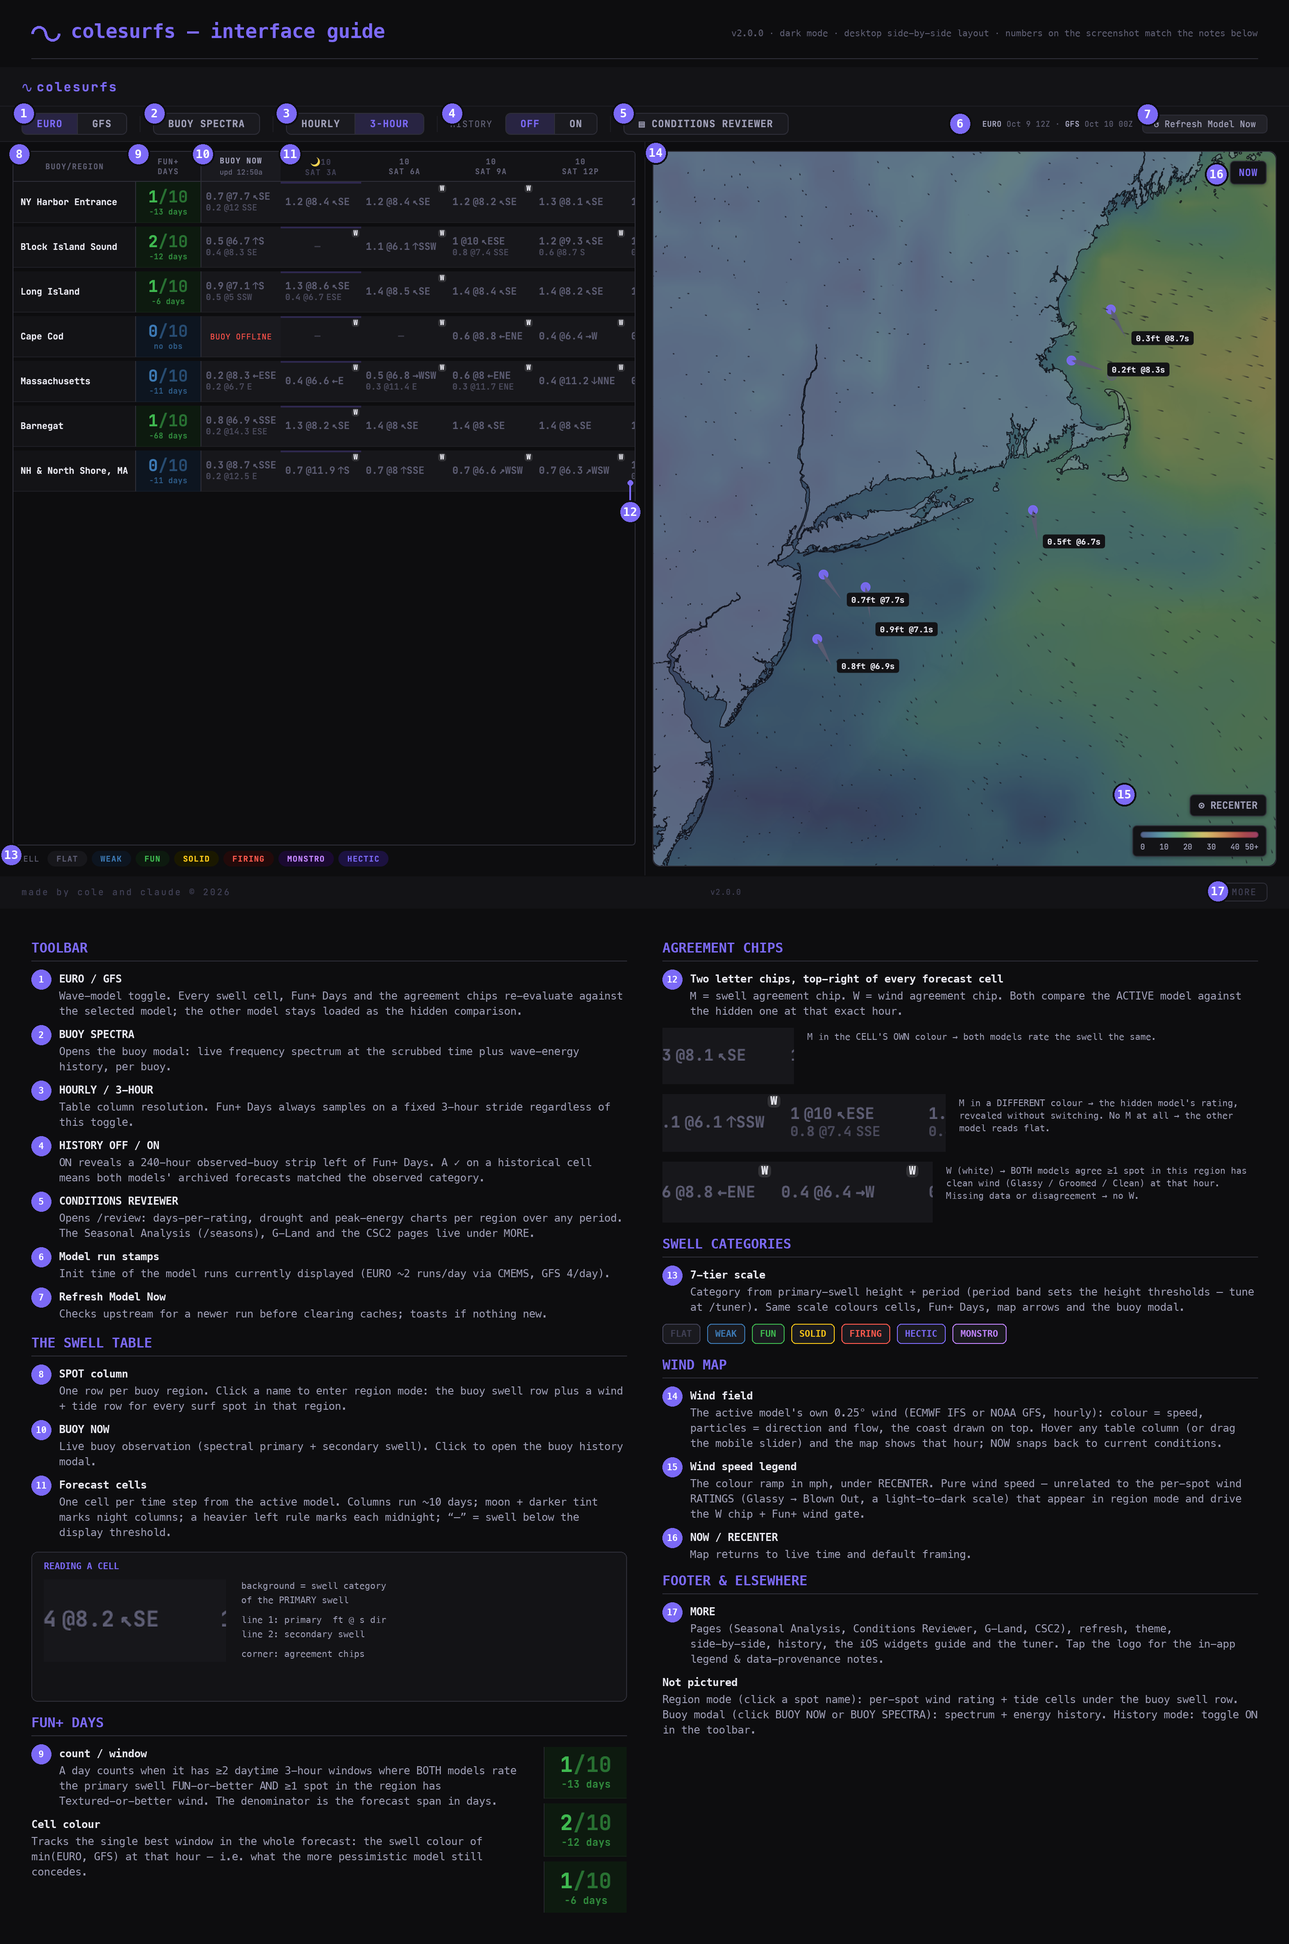
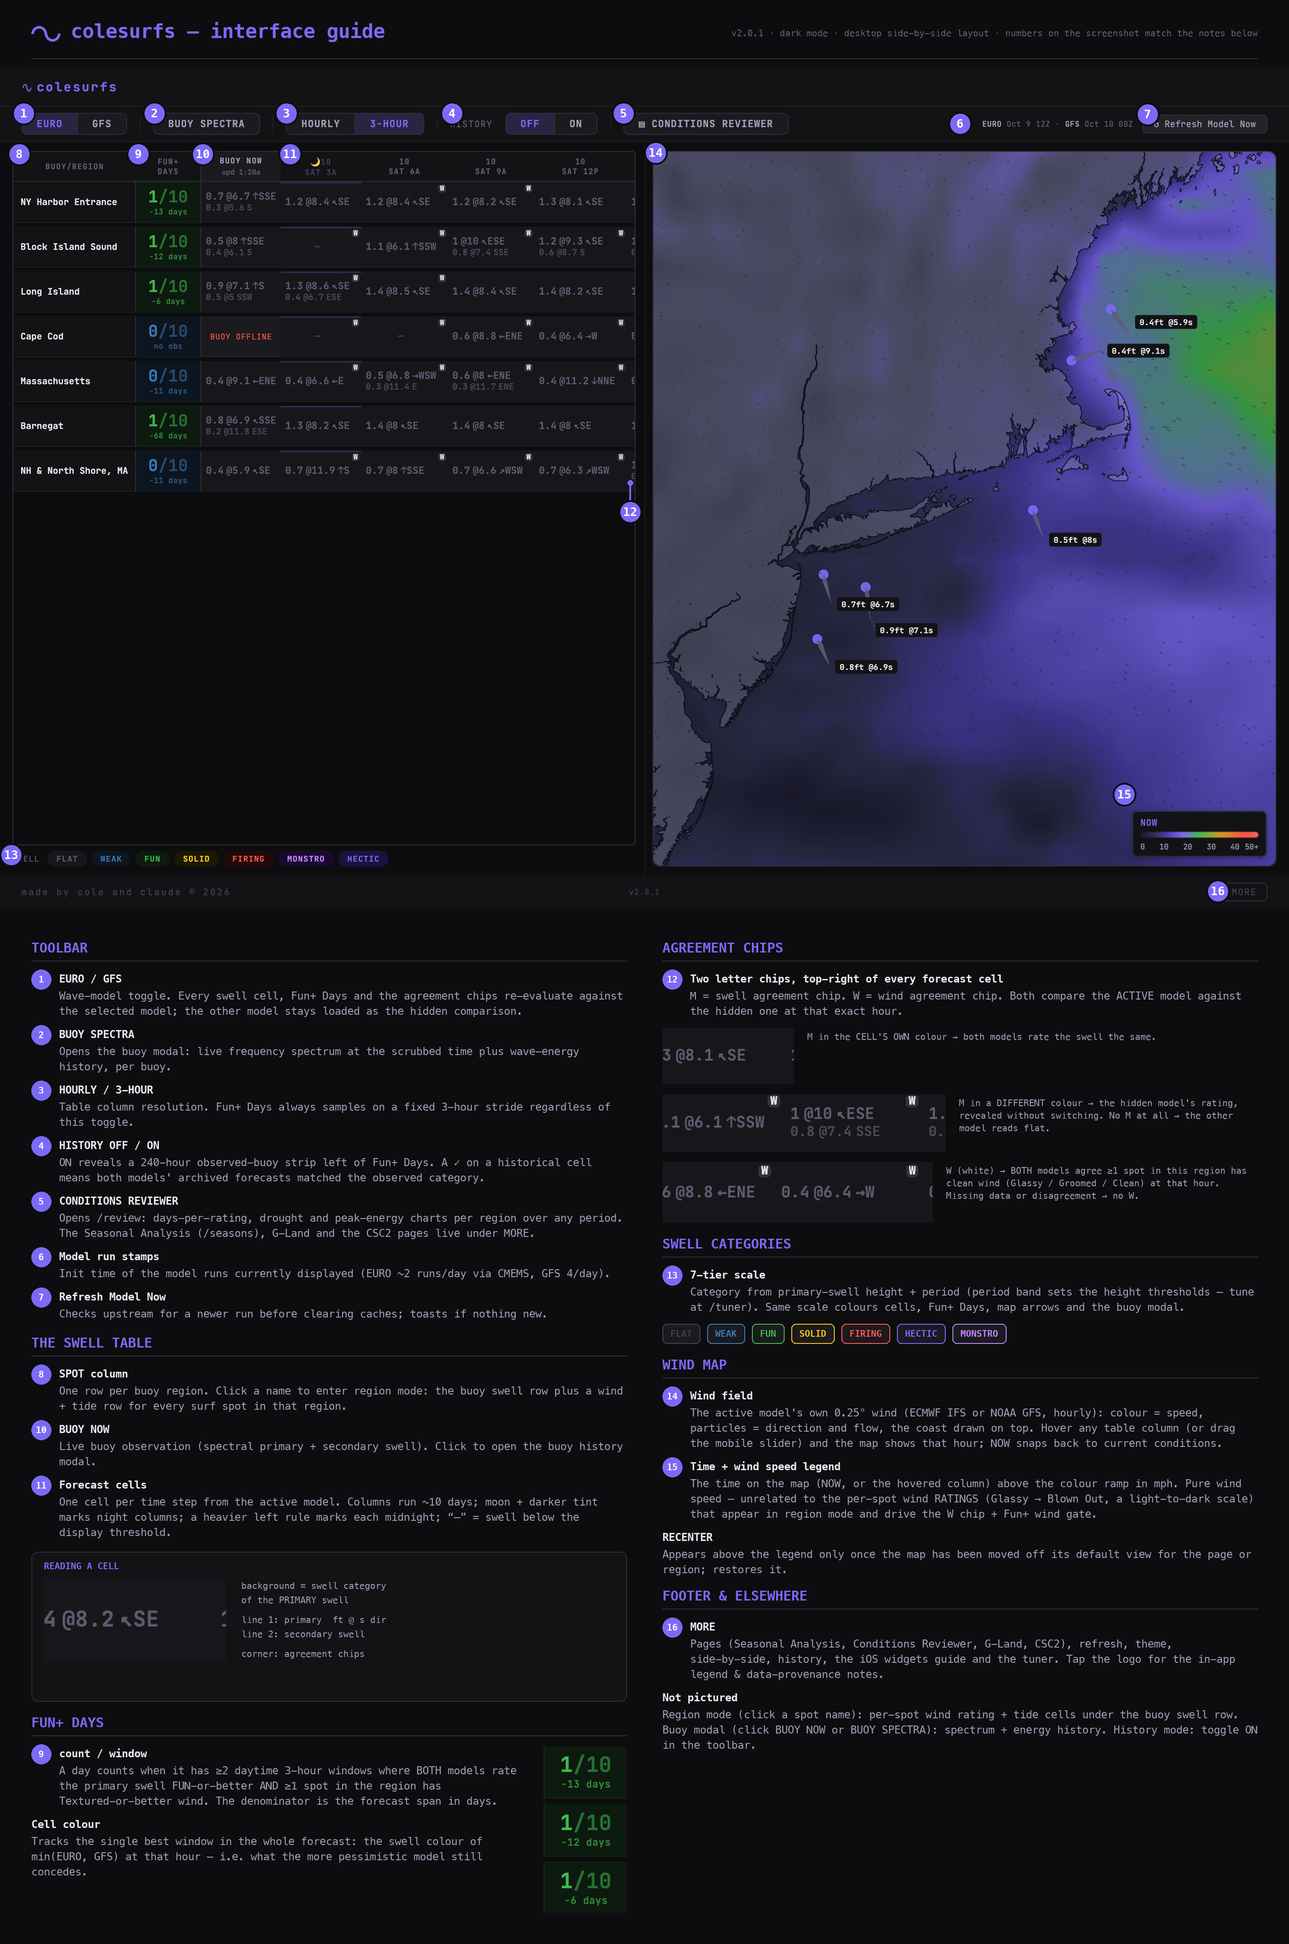
v2.0.1 — time label folded into the map legend; RECENTER only off the default view
- The map's time (NOW or the hovered column) sits in the legend above the
  wind-speed bar; the separate top-right time box is gone (desktop and phone).
- RECENTER appears only once the view leaves the default for the overview or
  the current region; _defaultView() defines that home for restoring and comparing.
- Interface guide and docs updated.

diff --git a/templates/index.html b/templates/index.html
@@ -193,16 +193,6 @@
 
     /* ─── Wind Map ────────────────────────────────────────── */
     #wind-time-display { font-size: 10px; color: var(--accent); letter-spacing: .04em; }
-    .map-time-overlay {
-      display: none;
-      font-size: 11px; color: var(--accent); letter-spacing: .04em;
-      font-family: var(--font); font-weight: 600;
-      background: var(--bg1); padding: 4px 9px; border-radius: 5px;
-      border: 1px solid var(--border1); pointer-events: none;
-      box-shadow: 0 1px 4px rgba(0,0,0,.35);
-      white-space: nowrap;
-    }
-    body.sbs .map-time-overlay { display: block; }
     .map-wrapper {
       width: 100%; height: 420px;
       border-radius: 8px; border: 1px solid var(--border1);
@@ -228,6 +218,8 @@
       box-shadow: 0 1px 4px rgba(0,0,0,.35);
       pointer-events: none; font-family: var(--font);
     }
+    .wss-time { font-size: 10px; font-weight: 600; letter-spacing: .04em; color: var(--accent); line-height: 1.2; white-space: nowrap; }
+    .wss-body { display: flex; flex-direction: column; gap: 4px; }
     .wss-status { font-size: 8.5px; letter-spacing: .07em; text-transform: uppercase; color: var(--text1); }
     .wss-bar { height: 7px; border-radius: 4px; box-shadow: inset 0 0 0 1px rgba(0,0,0,.25); }
     .wss-ticks { position: relative; height: 11px; font-size: 8.5px; color: var(--text1); }
@@ -496,6 +488,7 @@
       box-shadow: 0 1px 4px rgba(0,0,0,.35);
     }
     .map-recenter-btn:hover { color: var(--accent); border-color: var(--accent); }
+    .map-recenter-btn.is-home { display: none; }   /* only offered once the view has left its default */
 
     /* ─── Loading overlay ────────────────────────────────────── */
     .loading-overlay {
@@ -713,6 +706,8 @@
 
       /* Wind speed legend: compact on mobile */
       .wind-speed-scale { width: 118px !important; padding: 5px 7px 4px !important; gap: 3px !important; }
+      .wss-body { gap: 3px; }
+      .wss-time { font-size: 9px; }
       .wss-bar { height: 5px !important; }
 
       /* ── Table: fill remaining 60% ── */
@@ -1039,13 +1034,6 @@
         line-height: 26px !important; font-size: 14px !important;
       }
       .map-recenter-btn { font-size: 9px !important; padding: 3px 7px !important; }
-
-      /* Map time overlay — match button style */
-      .map-time-overlay {
-        display: block !important;
-        font-size: 9px !important;
-        padding: 3px 7px !important;
-      }
 
       /* Loading overlay: smaller */
       .loading-logo { font-size: 18px; }
@@ -1509,7 +1497,7 @@
       <dt>Tides</dt><dd>NOAA CO-OPS predictions, Surfline-corrected</dd>
       <dt>Map</dt><dd>NOAA NCEI Coastal Relief / ETOPO elevation, drawn in-house</dd>
     </dl>
-    <span class="info-modal-version">v2.0.0</span>
+    <span class="info-modal-version">v2.0.1</span>
   </div>
 </div>
 
@@ -1534,7 +1522,7 @@
       <a class="info-modal-refresh" href="/tuner">⇞ TUNER</a>
       <button class="info-modal-refresh" onclick="openWidgetModal()">▣ IOS WIDGETS</button>
     </div>
-    <span class="about-version">v2.0.0</span>
+    <span class="about-version">v2.0.1</span>
   </div>
 </div>
 
@@ -1604,7 +1592,7 @@ await eval(await r.loadString());</pre>
     made by cole and claude &copy; 2026
   </span>
   <div class="footer-center">
-    <span class="footer-version">v2.0.0</span>
+    <span class="footer-version">v2.0.1</span>
   </div>
   <div class="footer-btns">
     <button class="footer-btn" onclick="openAboutModal()" title="Pages and settings">MORE</button>
@@ -2353,7 +2341,7 @@ WindField.onUpdate(model => {
   _setWindRunTag(field);
 });
 
-// Update wind time label in both the section header and the SBS map overlay.
+// Update wind time label in both the section header and the map legend.
 function _setWindTimeLabel(label) {
   const el = document.getElementById('wind-time-display');
   if (el) el.textContent = label;
@@ -2682,7 +2670,7 @@ async function loadWindForecast(model) {
 // ═══ 8. LEGEND & WIND SCALE ═════════════════════════════════
 
 function buildWindScale() {
-  const el = document.getElementById('wind-speed-scale');
+  const el = document.getElementById('wss-body');
   if (!el) return;
   const MPH = 2.23694, MAX = 50, theme = _isDark() ? 'dark' : 'light';
   if (el.dataset.built !== theme) {
@@ -4423,26 +4411,16 @@ function initMap() {
     el.addEventListener('touchcancel', () => { _lastT = 0; }, { passive: true });
   }
 
-  // Time badge — always top-right
-  const TimeOverlayControl = L.Control.extend({
-    options: { position: 'topright' },
-    onAdd() {
-      const el = L.DomUtil.create('div', 'map-time-overlay');
-      el.id = 'map-time-overlay';
-      el.textContent = 'NOW';
-      return el;
-    },
-  });
-  window._timeOverlayCtrl = new TimeOverlayControl().addTo(map);
-
   // Bottom-right stack, bottom first (Leaflet inserts later bottom controls
-  // above earlier ones): the wind-speed legend, then RECENTER on top of it.
-  // Regional mode is left by clicking the active region's name again.
+  // above earlier ones): the legend — the displayed time over the wind-speed
+  // bar — then RECENTER on top of it, shown only once the view has left its
+  // default. Regional mode is left by clicking the active region's name again.
   const LegendControl = L.Control.extend({
     options: { position: 'bottomright' },
     onAdd() {
       const el = L.DomUtil.create('div', 'wind-speed-scale');
       el.id = 'wind-speed-scale';
+      el.innerHTML = `<div class="wss-time" id="map-time-overlay">${_savedLabel || 'NOW'}</div><div class="wss-body" id="wss-body"></div>`;
       return el;
     },
   });
@@ -4460,6 +4438,8 @@ function initMap() {
     },
   });
   new RecenterControl().addTo(map);
+  map.on('moveend zoomend resize', _syncRecenter);
+  _syncRecenter();
 
   // Test hooks — expose map + rebuild helpers for the loop-test harness.
   window._map = map;
@@ -4470,27 +4450,39 @@ function initMap() {
   };
 }
 
-function recenterMap() {
-  if (!map) return;
+// The view the map rests in for the current page / region — what RECENTER
+// restores and what decides whether RECENTER is offered at all.
+function _defaultView() {
   const mob = _isMobile();
-  if (!regionMode) {
-    map.setView(mob ? MAP_CENTER_MOBILE : MAP_CENTER, mob ? MAP_ZOOM_MOBILE : MAP_ZOOM);
-    return;
-  }
+  if (!regionMode)
+    return { center: L.latLng(mob ? MAP_CENTER_MOBILE : MAP_CENTER), zoom: mob ? MAP_ZOOM_MOBILE : MAP_ZOOM };
   const rv = REGION_VIEWS[regionMode];
   if (rv) {
     const c = (mob && rv.mobile_center) ? rv.mobile_center : rv.center;
     const z = (mob && rv.mobile_zoom)   ? rv.mobile_zoom   : rv.zoom;
-    map.setView(c, z);
-    return;
+    return { center: L.latLng(c), zoom: z };
   }
   const spots = (CFG && CFG.wind_spots || []).filter(ws => ws.buoy_region === regionMode);
-  if (!spots.length) { map.setView(MAP_CENTER, MAP_ZOOM); return; }
-  const lats   = spots.map(s => s.lat);
-  const lons   = spots.map(s => s.lon);
-  const bounds = [[Math.min(...lats), Math.min(...lons)],
-                  [Math.max(...lats), Math.max(...lons)]];
-  map.fitBounds(bounds, { padding: [60, 60] });
+  if (!spots.length) return { center: L.latLng(MAP_CENTER), zoom: MAP_ZOOM };
+  const lats = spots.map(s => s.lat), lons = spots.map(s => s.lon);
+  const bounds = L.latLngBounds([[Math.min(...lats), Math.min(...lons)], [Math.max(...lats), Math.max(...lons)]]);
+  return map._getBoundsCenterZoom(bounds, { padding: [60, 60] });   // exactly what fitBounds would do
+}
+
+function recenterMap() {
+  if (!map) return;
+  const v = _defaultView();
+  map.setView(v.center, v.zoom);
+}
+
+// RECENTER only while the view differs from its default: zoom changed, or
+// the default centre more than a few pixels from the middle of the map.
+function _syncRecenter() {
+  const btn = document.querySelector('.map-recenter-btn');
+  if (!btn || !map) return;
+  const v = _defaultView(), s = map.getSize(), p = map.latLngToContainerPoint(v.center);
+  const home = Math.abs(map.getZoom() - v.zoom) < 0.01 && Math.hypot(p.x - s.x / 2, p.y - s.y / 2) < 6;
+  btn.classList.toggle('is-home', home);
 }
 
 
@@ -4531,6 +4523,7 @@ async function enterRegionMode(spotName) {
   if (map) {
     map.invalidateSize();
     recenterMap();
+    _syncRecenter();
     buildSwellArrows(null, 'buoy');
     buildCoastAngleLines();
 
@@ -4554,10 +4547,7 @@ function exitRegionMode() {
   document.querySelector('.map-section').classList.remove('region-active');
   if (regionWindLayer) regionWindLayer.clearLayers();
   if (coastAngleLayer) coastAngleLayer.clearLayers();
-  if (map) {
-    const mob = _isMobile();
-    map.setView(mob ? MAP_CENTER_MOBILE : MAP_CENTER, mob ? MAP_ZOOM_MOBILE : MAP_ZOOM);
-  }
+  if (map) { recenterMap(); _syncRecenter(); }
   const scrollAnchor = _getScrollAnchor();
   buildTable();
   _scrollTableToTime(scrollAnchor);

diff --git a/templates/seasons.html b/templates/seasons.html
@@ -257,7 +257,7 @@
     <div class="modal-title"><span class="wave-glyph">∿</span>seasons · more</div>
     <a class="modal-btn" id="reviewLinkModal" href="/review">▤ CONDITIONS REVIEWER</a>
     <button class="modal-btn" id="themeBtn">◑ THEME</button>
-    <span class="modal-version">v2.0.0</span>
+    <span class="modal-version">v2.0.1</span>
   </div>
 </div>
 

diff --git a/templates/review.html b/templates/review.html
@@ -279,7 +279,7 @@
     <div class="modal-title"><span class="wave-glyph">∿</span>reviewer · more</div>
     <a class="modal-btn" id="seasonsLink" href="/seasons">▦ SEASONAL ANALYSIS</a>
     <button class="modal-btn" id="themeBtn">◑ THEME</button>
-    <span class="modal-version">v2.0.0</span>
+    <span class="modal-version">v2.0.1</span>
   </div>
 </div>
 

diff --git a/templates/csc.html b/templates/csc.html
@@ -522,7 +522,7 @@
     <div class="modal-title"><span class="wave-glyph">∿</span>csc2 · more</div>
     <a class="modal-btn" href="/csc-model">≡ MODEL NOTES</a>
     <button class="modal-btn" id="theme-btn" type="button">◑ THEME</button>
-    <span class="modal-version">v2.0.0</span>
+    <span class="modal-version">v2.0.1</span>
   </div>
 </div>
 

diff --git a/templates/gland-tuner.html b/templates/gland-tuner.html
@@ -281,7 +281,7 @@
     <div class="modal-title"><span class="wave-glyph">∿</span>G-Land tuner · more</div>
     <a class="modal-btn" href="/">∿ MAIN DASHBOARD</a>
     <button class="modal-btn" id="themeBtn">◑ THEME</button>
-    <span class="modal-version">v2.0.0</span>
+    <span class="modal-version">v2.0.1</span>
   </div>
 </div>
 

diff --git a/templates/gland.html b/templates/gland.html
@@ -569,7 +569,7 @@
     <a class="modal-btn" href="/gland/tuner">⇞ TUNER</a>
     <button class="modal-btn" id="refreshBtn">↺ REFRESH NOW</button>
     <button class="modal-btn" id="themeBtn">◑ THEME</button>
-    <span class="modal-version">v2.0.0</span>
+    <span class="modal-version">v2.0.1</span>
   </div>
 </div>
 

diff --git a/README.md b/README.md
@@ -1,4 +1,4 @@
-# colesurfs · v2.0.0
+# colesurfs · v2.0.1
 
 © 2026 Cole Heine. All rights reserved. — [LICENSE](./LICENSE)
 
@@ -76,7 +76,7 @@ Sun times are computed locally (`sun.py`, astral). How the live data flows from 
 
 **Colour field.** Wind speed is painted per screen pixel (exact Web Mercator, bilinear in the grid, 2 CSS px per sample) on the site's own Obsidian palette made continuous — calm in the page's navy (slate blue in light mode), through the indigo and purple accent, then the green / amber / red the rest of the site uses, lightening past gale force, 0–50+ mph, at ~80 % opacity. The ramp is purely wind speed and has no relationship to the swell or wind-rating palettes. Particles are dark strokes in both themes, trails batched so a few thousand run at the display's frame rate.
 
-**Legend.** A Leaflet control at the map's bottom-right, directly under the `⊙ RECENTER` button and dressed like it: the colour bar and mph ticks only, rebuilt per theme. A small "loading wind…" / "wind unavailable" line appears beneath it only while there is nothing on the map. There is no overview button — regional mode is left by clicking the active region's name again.
+**Legend.** One control at the map's bottom-right: the displayed time (NOW, or the hovered column) above the colour bar and mph ticks, rebuilt per theme; a small "loading wind…" / "wind unavailable" line appears beneath it only while there is nothing on the map. `⊙ RECENTER` sits above it, dressed the same, and appears only once the view has left the default for the overview or the current region (zoom changed, or the default centre more than a few pixels off). There is no overview button — regional mode is left by clicking the active region's name again.
 
 **Basemap and coastline.** `bathy.py` renders every tile itself from NOAA NCEI elevation (no key, no third-party raster): the base paints land flat and shades the sea by depth (half the ramp across the shelf 0–200 m, half down the slope to 4 km) in the theme palette; the coastline styles are transparent except a black line on the land/sea boundary plus a translucent land wash, drawn *above* the colour field so wind shows over land and the coast stays a clean edge. The land mask is cleaned in metres before tracing (specks and hairlines under ~40 m, creeks under ~120 m, enclosed ponds under 0.25 km², islands under 1.5 km²), the base tiles paint land from that same mask, and the retina coastline variant ships the full 512 px render so phones get a crisp ~1 CSS px line. One NOAA request renders a 2 × 2 group of tiles in every style; tiles persist on disk, serve with immutable cache headers, and the default + regional views and then the whole NY/New England core box (zooms 6–11) pre-render at startup so panning and zooming never wait on NOAA. The page retries a tile that errors and warms the browser cache around the viewport on every move.
 
@@ -267,6 +267,10 @@ Why not Git?
 ---
 
 ## Changelog
+
+### v2.0.1
+- **One legend box.** The map's time label (NOW, or the hovered column) moved into the legend, above the wind-speed bar; the separate top-right time box is gone on desktop and phone.
+- **RECENTER only when you've moved.** The button appears once the view leaves the default for the overview or the current region (zoom changed, or the default centre more than a few pixels off) and hides again at home. One `_defaultView()` defines that home for both restoring and comparing, phone variants included.
 
 ### v2.0.0
 - **The wind map is rebuilt around the models' own grids.** The map used to animate a 144-point Open-Meteo grid at 4° spacing (one API call's worth); fronts and lows were blurs. It now draws the **0.25° 10 m wind straight from the model output**: GFS from NOMADS' grib filter (a subregion cut of UGRD/VGRD per step, ~23 KB; AWS `noaa-gfs-bdp-pds` byte ranges as the fallback) and ECMWF IFS from the open-data index files + HTTP byte ranges (one global 10u/10v field per step; `data.ecmwf.int`, AWS mirror as fallback) — no API keys, no quotas, CC BY 4.0 / public domain. New `wind_field.py` decodes each run with eccodes, cuts it to a 30–48° N × 82–55° W envelope (73 × 109 points), quantises to 0.05 m/s int16, keeps each run for four days under `.cache/wind_field/<MODEL>/`, and composites a time series — the newest run for every valid hour (older runs fill the past three days and, behind a short 06/18Z ECMWF run, the tail): hourly from now to +48 h, three-hourly to +240 h. A background thread probes both sources every 10 minutes and tops up a run while it is still publishing, so a new cycle reaches the map within minutes of its first steps. `/api/wind_field/meta` carries the grid, the steps (local time + epoch), the chunk layout and the runs; `/api/wind_field/data` streams the series as gzip'd int16 x-delta byte planes (~14 KB a step) — the step nearest now first (first paint in one small request), then now → +48 h, the tail, the past. The dashboard interpolates between steps, so a hovered column shows that hour's wind, and both models' series stay in memory so the EURO/GFS toggle is instant after the first switch.

diff --git a/CLAUDE.md b/CLAUDE.md
@@ -364,18 +364,29 @@ tiles (380) → particles / SVG vectors (overlayPane) → markers.
 
 ### Legend and controls (§ 8, § 16)
 
-The wind-speed legend is a Leaflet control (`LegendControl`, bottomright)
-added BEFORE `RecenterControl` (Leaflet inserts later bottom controls above
+The legend is one Leaflet control (`LegendControl`, bottomright) added
+BEFORE `RecenterControl` (Leaflet inserts later bottom controls above
 earlier ones), so it sits directly under `⊙ RECENTER` and wears the
 button's clothes: `background var(--bg1)`, `1px solid var(--border1)`,
-5 px radius, the same shadow; 150 px wide (118 px on phones). `buildWindScale`
-fills `#wind-speed-scale` with the colour bar (0–50 mph from `windRampColor`)
+5 px radius, the same shadow; 150 px wide (118 px on phones). It holds the
+displayed time (`#map-time-overlay`, set by `_setWindTimeLabel` — NOW or the
+hovered column; there is no separate time badge) above `#wss-body`, which
+`buildWindScale` fills with the colour bar (0–50 mph from `windRampColor`)
 and the mph ticks, once per theme (`dataset.built`). `_setWindRunTag` only
-surfaces `#wind-status` — "loading wind…" / "wind unavailable" — beneath the
-bar while there is nothing on the map. There is no OVERVIEW button:
+surfaces `#wind-status` — "loading wind…" / "wind unavailable" — beneath
+the bar while there is nothing on the map.
+
+`⊙ RECENTER` is offered only off the default view: `_defaultView()` is the
+one definition of where the map rests for the overview or the current
+region (desktop/phone centre + zoom from `MAP_CENTER*` / `REGION_VIEWS`, or
+`_getBoundsCenterZoom` for a region without a view — exactly what
+`fitBounds` would do); `recenterMap()` sets it; `_syncRecenter()` on
+moveend/zoomend/resize (and after entering/leaving a region) adds
+`.is-home` (display none) when the zoom matches and the default centre is
+within 6 px of the map's middle. There is no OVERVIEW button:
 `enterRegionMode(name)` on the already-active region calls
 `exitRegionMode()`, i.e. regional mode is left by clicking the active
-region's name again. The time badge (`map-time-overlay`) is top-right.
+region's name again.
 
 ## Data & caching
 
